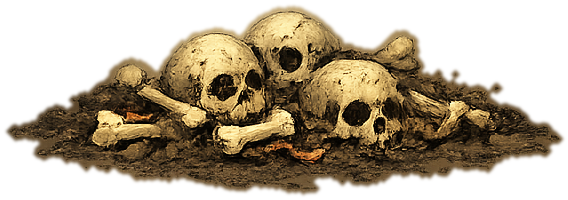
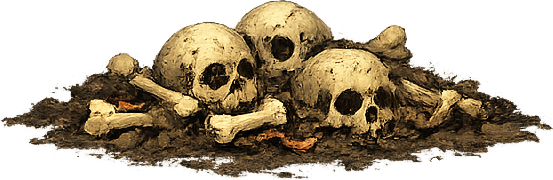
Re-cut bone piles from original alpha (clean natural edges, no feathering)

diff --git a/editor.html b/editor.html
@@ -158,7 +158,7 @@ const TEX_COLS={ceiling:'#7a5a36',rockpile:'#8a6a3a'}, TEX_LABEL={ceiling:'Cave 
 const DECOR=['skull1', 'bone01', 'bone02', 'bone03', 'bone04', 'bone05', 'bone06', 'bone07', 'bone08', 'bone09', 'bone10', 'bone11', 'bone12', 'bone13', 'bone14', 'bone15', 'bone16'];
 const DECOR_LABELS={'skull1': 'Skull', 'bone01': 'Bone Pile 1', 'bone02': 'Bone Pile 2', 'bone03': 'Bone Pile 3', 'bone04': 'Bone Pile 4', 'bone05': 'Bone Pile 5', 'bone06': 'Bone Pile 6', 'bone07': 'Bone Pile 7', 'bone08': 'Bone Pile 8', 'bone09': 'Bone Pile 9', 'bone10': 'Bone Pile 10', 'bone11': 'Bone Pile 11', 'bone12': 'Bone Pile 12', 'bone13': 'Bone Pile 13', 'bone14': 'Bone Pile 14', 'bone15': 'Bone Pile 15', 'bone16': 'Bone Pile 16'};
 const DECOR_IMG={};
-DECOR.forEach(n=>{ TEX_LABEL[n]=DECOR_LABELS[n]; TEX_COLS[n]='#9a8a6a'; const im=new Image(); im.onload=()=>draw(); im.src='./assets/decor_'+n+'.png?v=2'; DECOR_IMG[n]=im; });
+DECOR.forEach(n=>{ TEX_LABEL[n]=DECOR_LABELS[n]; TEX_COLS[n]='#9a8a6a'; const im=new Image(); im.onload=()=>draw(); im.src='./assets/decor_'+n+'.png?v=3'; DECOR_IMG[n]=im; });
 const CAVEPLAT_IMG=new Image(); CAVEPLAT_IMG.onload=()=>draw(); CAVEPLAT_IMG.src='./assets/caveplat1.png';
 const CHEST_E=new Image(); CHEST_E.onload=()=>draw(); CHEST_E.src='./assets/chest_closed1.png';
 const TREEBIG_E=new Image(); TREEBIG_E.onload=()=>draw(); TREEBIG_E.src='./assets/sprites/trees_big.png';

diff --git a/index.html b/index.html
@@ -96,7 +96,7 @@
 <script src="./levels/stage2.js?v=1780859618"></script>
 <script src="./levels/crypt1.js?v=1780859618"></script>
 <script src="./levels/crypt2.js?v=1780859618"></script>
-<script src="./src/world.js?v=1780871422"></script>
-<script src="./src/engine.js?v=1780871422"></script>
+<script src="./src/world.js?v=1780871894"></script>
+<script src="./src/engine.js?v=1780871894"></script>
 </body>
 </html>

diff --git a/src/engine.js b/src/engine.js
@@ -1,4 +1,4 @@
-const ASSET_VER='1780871388';
+const ASSET_VER='1780871894';
 async function loadSprites(){
   if (window.SPRITES_INLINE) return window.SPRITES_INLINE;
   const S = await (await fetch('./assets/sprites.json?v='+ASSET_VER)).json();
